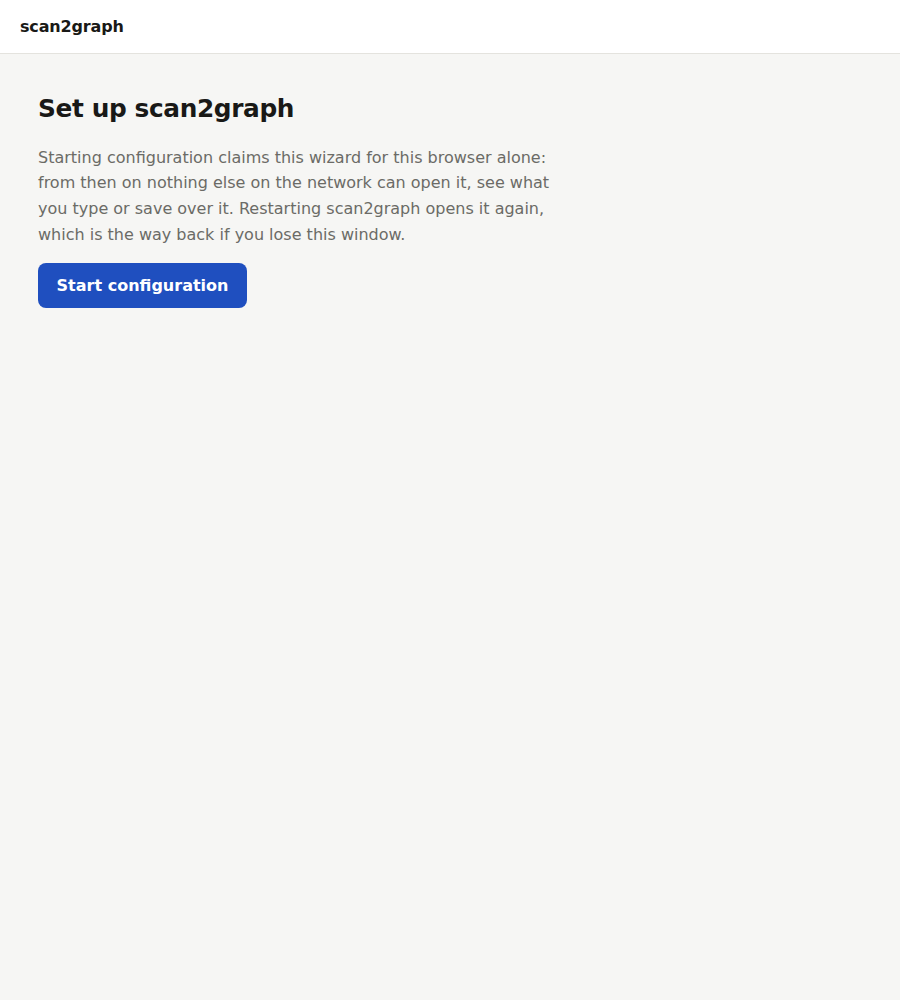
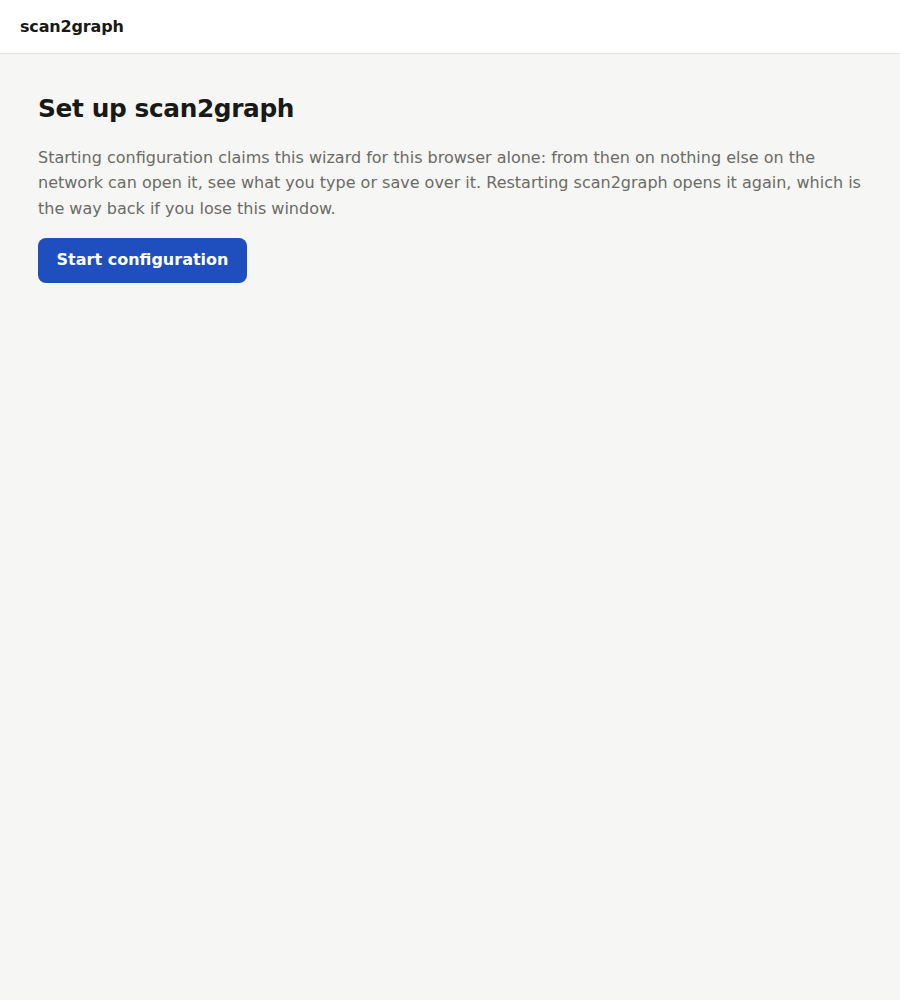
Make the setup form about what actually has to be configured (#26)
* Make the setup form about what actually has to be configured

The wizard asked for twenty-two settings with equal weight, and said each
setting's S2G_* name at the end of the sentence explaining it, where the
name competed with the explanation. Someone setting this up for the first
time reads all of it as equally required.

So the name moves onto the label's row, small and muted: still there for
the operator who is looking for it in the configuration reference, no
longer in the way of the person reading the help. The shape of an answer
moves out of the help sentence into a placeholder, which lets every one of
those sentences get shorter and shows the example where the answer goes
rather than under it. The sentence that said a secret is configured and an
empty box keeps it becomes a placeholder in that box, where it is about
the box it is about.

How long a scan stays available, the log level and the log format are not
things a household tunes, so they join the rarely-needed settings. That
leaves the Advanced card with nothing but rarely-needed settings in it, and
a card built only to hold its own disclosure is a box around a box - so a
group with nothing ordinary left in it now collapses straight to the
disclosure, named for the group it replaces. Nothing declares that; it
follows from the group being entirely rare.

The default time a scan stays downloadable goes from 90 minutes to 8 hours.
Ninety minutes is shorter than the working day the scan was made in: paper
[…]

Changed region(s): [[0.0311, 0.155, 0.9333, 0.31]]

diff --git a/internal/web/templates/setup.html b/internal/web/templates/setup.html
@@ -16,7 +16,7 @@ file; it does not start the appliance.</p>
 {{else}}
 <h1>Set up scan2graph</h1>
 <p class="empty">Everything here ends up in one KEY=value file. Leave a box
-empty to keep the built-in default, and open “Rarely needed” only when
+empty to keep the built-in default, and open a folded-away section only when
 something asks you to.</p>
 {{if .Errors}}
 <div class="problems">
@@ -40,16 +40,27 @@ consent.</p>
 <form method="post" action="/setup">
 <input type="hidden" name="form" value="{{.Form}}">
 {{range .Groups}}
+{{if .Fields}}
 <fieldset>
 <legend>{{.Name}}</legend>
 {{range .Fields}}{{template "field" .}}{{end}}
 {{if .Rare}}
-<details>
+<details{{if .OpenRare}} open{{end}}>
 <summary>Rarely needed</summary>
 {{range .Rare}}{{template "field" .}}{{end}}
 </details>
 {{end}}
 </fieldset>
+{{else}}
+{{/* A group that is entirely Rare has nothing ordinary to put in a
+     fieldset, so a fieldset built only to hold its "Rarely needed"
+     disclosure would be a box around a box: collapse straight to the
+     disclosure instead, named for the group it replaces. */}}
+<details class="group"{{if .OpenRare}} open{{end}}>
+<summary>{{.Name}}</summary>
+{{range .Rare}}{{template "field" .}}{{end}}
+</details>
+{{end}}
 {{end}}
 <div class="actions">
 {{if .Path}}<button type="submit" name="action" value="save" class="primary">Save the configuration file</button>{{end}}
@@ -64,23 +75,32 @@ consent.</p>
 {{define "field" -}}
 <div class="field{{if .Error}} bad{{end}}">
 {{if eq .Kind "bool"}}
+<span class="field-head">
 <label class="check"><input type="checkbox" id="{{.Name}}" name="{{.Name}}" value="true"{{if .Checked}} checked{{end}}> {{.Label}}</label>
+<code>{{.Name}}</code>
+</span>
 {{else}}
+<span class="field-head">
 <label for="{{.Name}}">{{.Label}}</label>
+<code>{{.Name}}</code>
+</span>
 {{if eq .Kind "choice"}}
 <select id="{{.Name}}" name="{{.Name}}">
-<option value="">(default)</option>
+{{/* A select shows no placeholder, so its empty option says what the
+     placeholder would have: "(default)", unless something is configured
+     that this box cannot show - the only way a choice field has one. */}}
+<option value="">{{if .Placeholder}}{{.Placeholder}}{{else}}(default){{end}}</option>
 {{range .Choice}}<option value="{{.}}"{{if eq . $.Value}} selected{{end}}>{{.}}</option>{{end}}
 </select>
 {{else if eq .Kind "area"}}
-<textarea id="{{.Name}}" name="{{.Name}}" rows="3" spellcheck="false">{{.Value}}</textarea>
+<textarea id="{{.Name}}" name="{{.Name}}" rows="3" spellcheck="false"{{if .Placeholder}} placeholder="{{.Placeholder}}"{{end}}>{{.Value}}</textarea>
 {{else if eq .Kind "secret"}}
-<input type="password" id="{{.Name}}" name="{{.Name}}" value="" autocomplete="new-password">
+<input type="password" id="{{.Name}}" name="{{.Name}}" value="" autocomplete="new-password"{{if .Placeholder}} placeholder="{{.Placeholder}}"{{end}}>
 {{else}}
-<input type="text" id="{{.Name}}" name="{{.Name}}" value="{{.Value}}" spellcheck="false">
+<input type="text" id="{{.Name}}" name="{{.Name}}" value="{{.Value}}" spellcheck="false"{{if .Placeholder}} placeholder="{{.Placeholder}}"{{end}}>
 {{end}}
 {{end}}
 {{if .Error}}<p class="error small">{{.Error}}</p>{{end}}
-<p class="muted small">{{.Help}}{{if .Set}} One is configured already and cannot be shown here; leave this empty to keep it.{{end}} <code>{{.Name}}</code></p>
+<p class="muted small">{{.Help}}</p>
 </div>
 {{- end}}

diff --git a/internal/web/static/style.css b/internal/web/static/style.css
@@ -117,7 +117,7 @@ tbody a:hover { text-decoration: underline; }
 .nowrap { white-space: nowrap; }
 .muted { color: var(--muted); }
 .small { font-size: .875rem; }
-.empty { color: var(--muted); max-width: 34rem; }
+.empty { color: var(--muted); }
 .error { color: var(--warn); }
 
 /* A five-column table does not fit a phone, so each scan becomes a small
@@ -138,7 +138,10 @@ tbody a:hover { text-decoration: underline; }
 
 /* The setup wizard: one long form, filled in once. The groups carry the
    structure, so the boxes themselves can stay quiet. */
-fieldset {
+/* A group that is entirely "rarely needed" collapses straight to the
+   disclosure (see setup.html) and still has to read like the card it stands
+   in for, so the two share one box. */
+fieldset, details.group {
   margin: 0 0 1.5rem;
   padding: 1.25rem;
   background: var(--panel);
@@ -147,9 +150,16 @@ fieldset {
 }
 legend { padding: 0 .4rem; font-weight: 600; }
 summary { cursor: pointer; color: var(--muted); font-size: .9rem; margin-bottom: .9rem; }
+details.group summary { font-weight: 600; color: inherit; font-size: 1rem; margin-bottom: 0; }
+details.group[open] summary { margin-bottom: .9rem; }
 .field { margin-bottom: 1.1rem; }
 .field:last-child { margin-bottom: 0; }
-.field > label { display: block; font-weight: 600; margin-bottom: .3rem; }
+/* The S2G_* key rides along the label's row instead of the help line below,
+   small and out of the way, so the setting's name never competes with the
+   sentence explaining it. */
+.field-head { display: flex; flex-wrap: wrap; align-items: baseline; justify-content: space-between; gap: .3rem .75rem; margin-bottom: .3rem; }
+.field-head label { font-weight: 600; }
+.field-head code { color: var(--muted); }
 .field p { margin: .3rem 0 0; }
 .field input, .field select, .field textarea {
   font: inherit;

diff --git a/internal/web/setupfields.go b/internal/web/setupfields.go
@@ -23,6 +23,11 @@ type setupField struct {
 	Choice            []string // fieldChoice only
 	Group             string   // fieldset heading
 	Rare              bool     // renders inside the group's <details> block
+	// Placeholder is a synthetic example shown in an empty box, so the shape
+	// of an answer needs no sentence of its own. It never shows once Set is
+	// true: what the box then has to say is that something is configured,
+	// not what one might look like.
+	Placeholder string
 }
 
 // setupFields is every S2G_* setting a real deployment might set, in the
@@ -33,40 +38,51 @@ type setupField struct {
 var setupFields = []setupField{
 	{
 		Name: "S2G_ENTRA_TENANT_ID", Label: "Directory (tenant) ID", Group: "Identity",
-		Help: "The Directory (tenant) ID on the app registration's Overview page in the Azure portal, e.g. 00000000-0000-0000-0000-000000000000.",
+		Help:        "The Directory (tenant) ID on the app registration's Overview page in the Azure portal.",
+		Placeholder: "00000000-0000-0000-0000-000000000000",
 	}, {
 		Name: "S2G_ENTRA_CLIENT_ID", Label: "Application (client) ID", Group: "Identity",
-		Help: "The Application (client) ID on that same Overview page.",
+		Help:        "The Application (client) ID on that same Overview page.",
+		Placeholder: "00000000-0000-0000-0000-000000000000",
 	}, {
 		Name: "S2G_ENTRA_CLIENT_SECRET", Label: "Client secret", Kind: fieldSecret, Group: "Identity",
 		Help: "The secret's Value (not its Secret ID) under Certificates & secrets in that app registration, which the portal shows only once, right after you create it.",
 	}, {
 		Name: "S2G_GRAPH_SENDER", Label: "Sending mailbox", Group: "Delivery",
-		Help: "The mailbox scans are mailed from, e.g. scanner@example.com; setting it together with the allowlist below is what turns email delivery on.",
+		Help:        "The mailbox scans are mailed from; setting it together with the allowlist below is what turns email delivery on.",
+		Placeholder: "scanner@example.com",
 	}, {
 		Name: "S2G_ALLOWED_RECIPIENT_DOMAINS", Label: "Allowed recipient domains", Group: "Delivery",
-		Help: "Comma-separated domains a scan may be mailed to, without a leading @ and matched exactly, e.g. example.com; email delivery requires it, or the appliance would be an open relay.",
+		Help:        "Comma-separated domains a scan may be mailed to, without a leading @ and matched exactly; email delivery requires it, or the appliance would be an open relay.",
+		Placeholder: "example.com, example.org",
 	}, {
 		Name: "S2G_RECIPIENT_ALIASES", Label: "Recipient aliases", Kind: fieldArea, Group: "Delivery",
-		Help: `JSON object mapping a shorthand address the printer's address book can hold to the real one, e.g. {"printer-shortcut@scanner.local":"jane.doe@example.com"}.`,
+		Help:        "JSON object mapping a shorthand address the printer's address book can hold to the real one.",
+		Placeholder: `{"printer-shortcut@scanner.local":"jane.doe@example.com"}`,
 	}, {
 		Name: "S2G_PUBLIC_BASE_URL", Label: "Public URL", Group: "Web UI",
-		Help: "Where this appliance is reached through the reverse proxy that terminates TLS, e.g. https://scan2graph.example.com; setting it is what turns the web UI on, and it must address the root of a host of its own.",
+		Help:        "Where this appliance is reached through the reverse proxy that terminates TLS; setting it is what turns the web UI on, and it must address the root of a host of its own.",
+		Placeholder: "https://scan2graph.example.com",
 	}, {
 		Name: "S2G_UI_TITLE", Label: "Name shown in the UI", Group: "Web UI",
-		Help: "What the web UI calls itself in its title and header, so it can say the household's or the office's name; defaults to scan2graph.",
+		Help:        "What the web UI calls itself in its title and header, so it can say the household's or the office's name.",
+		Placeholder: "scan2graph",
 	}, {
-		Name: "S2G_JOB_TTL", Label: "How long a scan stays available", Group: "Web UI",
-		Help: "How long a scan can be downloaded before it and its files are deleted, written like 90m or 2h and at least 1m.",
+		Name: "S2G_JOB_TTL", Label: "How long a scan stays available", Group: "Web UI", Rare: true,
+		Help:        "How long a scan can be downloaded before it and its files are deleted; must be at least 1m.",
+		Placeholder: "8h",
 	}, {
 		Name: "S2G_HTTP_ADDR", Label: "HTTP listen address", Group: "Web UI", Rare: true,
-		Help: "Address the web UI listens on inside the container; defaults to :8080.",
+		Help:        "Address the web UI listens on inside the container.",
+		Placeholder: ":8080",
 	}, {
 		Name: "S2G_SMTP_ADDR", Label: "SMTP listen address", Group: "Scanner",
-		Help: "Address the printer sends its scans to; defaults to :2525.",
+		Help:        "Address the printer sends its scans to.",
+		Placeholder: ":2525",
 	}, {
 		Name: "S2G_SMTP_USERNAME", Label: "SMTP username", Group: "Scanner",
-		Help: "Username the printer signs in with; defaults to scanner, and only means anything once a password is set.",
+		Help:        "Username the printer signs in with; only means anything once a password is set.",
+		Placeholder: "scanner",
 	}, {
 		Name: "S2G_SMTP_PASSWORD", Label: "SMTP password", Kind: fieldSecret, Group: "Scanner",
 		Help: "Password the printer signs in with; leave it unset and scan2graph makes up a new one on every start, which means reconfiguring the printer after every restart.",
@@ -75,30 +91,36 @@ var setupFields = []setupField{
 		Help: "For a printer that cannot authenticate at all: only on a trusted, isolated network segment, and not together with a username or password.",
 	}, {
 		Name: "S2G_PROFILES", Label: "Sender profiles", Kind: fieldArea, Group: "Scanner", Rare: true,
-		Help: `JSON object giving each printer sender address the features it may use, e.g. {"scan-web@scanner.local":{"email":false,"web":true,"ocr":true}}; leave it empty and every sender gets whatever the settings above enable.`,
+		Help:        "JSON object giving each printer sender address the features it may use; leave it empty and every sender gets whatever the settings above enable.",
+		Placeholder: `{"scan-web@scanner.local":{"email":false,"web":true,"ocr":true}}`,
 	}, {
 		Name: "S2G_MAX_MESSAGE_BYTES", Label: "Largest accepted message", Group: "Scanner", Rare: true,
-		Help: "Biggest message the SMTP listener accepts, in bytes; defaults to 33554432, which is 32 MiB.",
+		Help:        "Biggest message the SMTP listener accepts, in bytes; the default is 32 MiB.",
+		Placeholder: "33554432",
 	}, {
 		Name: "S2G_DI_ENDPOINT", Label: "Document Intelligence endpoint", Group: "Text recognition",
-		Help: "The https URL of the Azure Document Intelligence resource that makes scans searchable, e.g. https://replace-me.cognitiveservices.azure.com; setting it is what turns text recognition on.",
+		Help:        "The https URL of the Azure Document Intelligence resource that makes scans searchable; setting it is what turns text recognition on.",
+		Placeholder: "https://example.cognitiveservices.azure.com",
 	}, {
 		Name: "S2G_LOG_LEVEL", Label: "Log level", Kind: fieldChoice,
-		Choice: []string{"debug", "info", "warn", "error"}, Group: "Advanced",
+		Choice: []string{"debug", "info", "warn", "error"}, Group: "Advanced", Rare: true,
 		Help: "How much scan2graph writes to its log; defaults to info.",
 	}, {
 		Name: "S2G_LOG_FORMAT", Label: "Log format", Kind: fieldChoice,
-		Choice: []string{"json", "text"}, Group: "Advanced",
+		Choice: []string{"json", "text"}, Group: "Advanced", Rare: true,
 		Help: "json for a log collector, text for reading it yourself; defaults to json.",
 	}, {
 		Name: "S2G_TEMP_DIR", Label: "Temporary directory", Group: "Advanced", Rare: true,
-		Help: "Where scans are kept while they are worked on; it is wiped on every start and defaults to the operating system's temp directory.",
+		Help:        "Where scans are kept while they are worked on; it is wiped on every start and defaults to the operating system's temp directory.",
+		Placeholder: "/tmp",
 	}, {
 		Name: "S2G_MAX_JOBS", Label: "Most scans kept at once", Group: "Advanced", Rare: true,
-		Help: "How many scans may be queued, in flight or waiting to be picked up together; defaults to 32.",
+		Help:        "How many scans may be queued, in flight or waiting to be picked up together.",
+		Placeholder: "32",
 	}, {
 		Name: "S2G_MAX_CONCURRENT_JOBS", Label: "Scans processed at once", Group: "Advanced", Rare: true,
-		Help: "How many scans are worked on at the same time; defaults to 2.",
+		Help:        "How many scans are worked on at the same time.",
+		Placeholder: "2",
 	},
 }
 

diff --git a/internal/web/setup_test.go b/internal/web/setup_test.go
@@ -353,7 +353,7 @@ func TestSetupRejectsAndAttributes(t *testing.T) {
 	if strings.Contains(body, testClientSecret) {
 		t.Fatal("the re-rendered form rendered the client secret")
 	}
-	if !strings.Contains(body, "One is configured already") {
+	if !strings.Contains(body, "configured — leave empty to keep") {
 		t.Error("the page does not offer to keep the secret it is holding")
 	}
 	fixed := validForm()
@@ -426,6 +426,11 @@ func TestSetupKeepsAFileSuppliedValue(t *testing.T) {
 		{"a secret", "S2G_ENTRA_CLIENT_SECRET_FILE", testClientSecret, nil},
 		{"a plain setting", "S2G_GRAPH_SENDER_FILE", "scanner@example.com\n",
 			map[string]string{"S2G_ALLOWED_RECIPIENT_DOMAINS": "example.com"}},
+		// A dropdown has no placeholder to carry the hint, and "(default)"
+		// where something is configured misstates the configuration. The
+		// value is one the loader takes but the options do not offer, so
+		// finding it in the page would mean it really had been rendered.
+		{"a choice", "S2G_LOG_LEVEL_FILE", "warning\n", nil},
 	} {
 		t.Run(tc.name, func(t *testing.T) {
 			dir := t.TempDir()
@@ -451,7 +456,7 @@ func TestSetupKeepsAFileSuppliedValue(t *testing.T) {
 				t.Fatal("the configured value was rendered into the page")
 			}
 			field, _, _ := strings.Cut(body[strings.Index(body, `id="`+name+`"`):], "</div>")
-			if !strings.Contains(field, "One is configured already") {
+			if !strings.Contains(field, "configured — leave empty to keep") {
 				t.Errorf("the page does not say that an empty box keeps the configured value:\n%s", field)
 			}
 
@@ -1008,6 +1013,12 @@ func TestSetupErrorStaysUnderItsOwnBox(t *testing.T) {
 	}
 	if strings.Contains(body, "problems") {
 		t.Error("the error was pushed above the form by a value that merely names another setting")
+	}
+	// That box is one of the rarely-needed ones, so it sits behind a
+	// disclosure - which has to open itself, or the only account of the
+	// refusal is folded away and the page comes back looking unchanged.
+	if !strings.Contains(body, "<details open>") {
+		t.Error("the disclosure holding the rejected box stayed folded")
 	}
 }
 

diff --git a/internal/web/setup.go b/internal/web/setup.go
@@ -498,6 +498,11 @@ type setupView struct {
 type setupGroup struct {
 	Name         string
 	Fields, Rare []setupInput
+	// OpenRare unfolds the disclosure because something inside it was
+	// rejected. A complaint is only ever rendered under the box that caused
+	// it, so a folded-away one is a dead end: the operator presses Save, the
+	// page comes back looking identical, and nothing on it says why.
+	OpenRare bool
 }
 
 // setupInput is one field ready to render. Value is empty for a secret, which
@@ -524,6 +529,12 @@ func (s *setupServer) view(values map[string]string, general []string, byField m
 		// the next press from this page - which folds into these values,
 		// remember having stored them under the id being rendered.
 		in.Set = values[f.Name+"_FILE"] != "" || (f.Kind == fieldSecret && values[f.Name] != "")
+		// Set wins over the field's own shape example: once there is a value
+		// no box can show, saying so is more important than what one would
+		// look like.
+		if in.Set {
+			in.Placeholder = "configured — leave empty to keep"
+		}
 		switch f.Kind {
 		case fieldSecret:
 			// Never rendered back into the page.
@@ -545,6 +556,7 @@ func (s *setupServer) view(values map[string]string, general []string, byField m
 		g := &v.Groups[len(v.Groups)-1]
 		if f.Rare {
 			g.Rare = append(g.Rare, in)
+			g.OpenRare = g.OpenRare || in.Error != ""
 		} else {
 			g.Fields = append(g.Fields, in)
 		}

diff --git a/internal/config/config.go b/internal/config/config.go
@@ -164,7 +164,7 @@ func Load(getenv func(string) string) (*Config, error) {
 	c.GraphBaseURL = l.baseURLDefault("S2G_GRAPH_BASE_URL", "https://graph.microsoft.com/v1.0", "http", "https")
 	c.GraphScope = l.stringDefault("S2G_GRAPH_SCOPE", "https://graph.microsoft.com/.default")
 
-	c.JobTTL = l.durationAtLeast("S2G_JOB_TTL", 90*time.Minute, time.Minute)
+	c.JobTTL = l.durationAtLeast("S2G_JOB_TTL", 8*time.Hour, time.Minute)
 
 	c.Limits = l.limits()
 

diff --git a/internal/config/config_test.go b/internal/config/config_test.go
@@ -132,8 +132,8 @@ func TestLoadMinimalValidConfigAndDefaults(t *testing.T) {
 	if c.GraphScope != "https://graph.microsoft.com/.default" {
 		t.Errorf("GraphScope = %q", c.GraphScope)
 	}
-	if c.JobTTL != 90*time.Minute {
-		t.Errorf("JobTTL = %v, want 90m", c.JobTTL)
+	if c.JobTTL != 8*time.Hour {
+		t.Errorf("JobTTL = %v, want 8h", c.JobTTL)
 	}
 	wantLimits := Limits{
 		MaxMessageBytes:   33554432,

diff --git a/README.md b/README.md
@@ -283,7 +283,7 @@ real environment variables.
 
 | variable | default | required when |
 | --- | --- | --- |
-| `S2G_JOB_TTL` | `90m` (minimum `1m`) | — |
+| `S2G_JOB_TTL` | `8h` (minimum `1m`) | — |
 | `S2G_MAX_MESSAGE_BYTES` | `33554432` (32 MiB) — the SMTP DATA cap, which also bounds PDF size | — |
 | `S2G_MAX_JOBS` | `32` — queued + in-flight + web-visible jobs | — |
 | `S2G_MAX_CONCURRENT_JOBS` | `2` — pipeline workers, also the OCR concurrency cap | — |
@@ -480,7 +480,7 @@ and the document has to be scanned again. That is a deliberate trade-off for
 an appliance that otherwise needs zero operational care — the paper original
 is still lying on the scanner glass.
 
-Web-visible scans expire `S2G_JOB_TTL` (90 minutes by default) after the
+Web-visible scans expire `S2G_JOB_TTL` (8 hours by default) after the
 pipeline finishes with them — ready or failed — rather than from when the
 printer sent them. OCR can take a while, and failing takes longer still
 because every retry has to be spent first; measured from arrival, a scan

diff --git a/AGENTS.md b/AGENTS.md
@@ -69,8 +69,7 @@ anything; it overrides habit, not judgement.
 * Public repository: synthetic values only — no real tenant ids, domains,
   addresses or secrets, anywhere, including tests. Keep test credentials in a
   single obviously-fake constant; secret scanners flag scattered literals.
-* Commit messages explain *why*, in prose, wrapped. No model names, no tool
-  attribution in anything pushed to the repository.
+* Commit messages explain *why*, in prose, wrapped.
 * Keep branch history clean and signed. Squashing a branch is better than
   leaving an intermediate commit that a scanner or a reader will trip over.
 * Never log document content, OCR text, tokens, secrets, cookies, whole MIME
